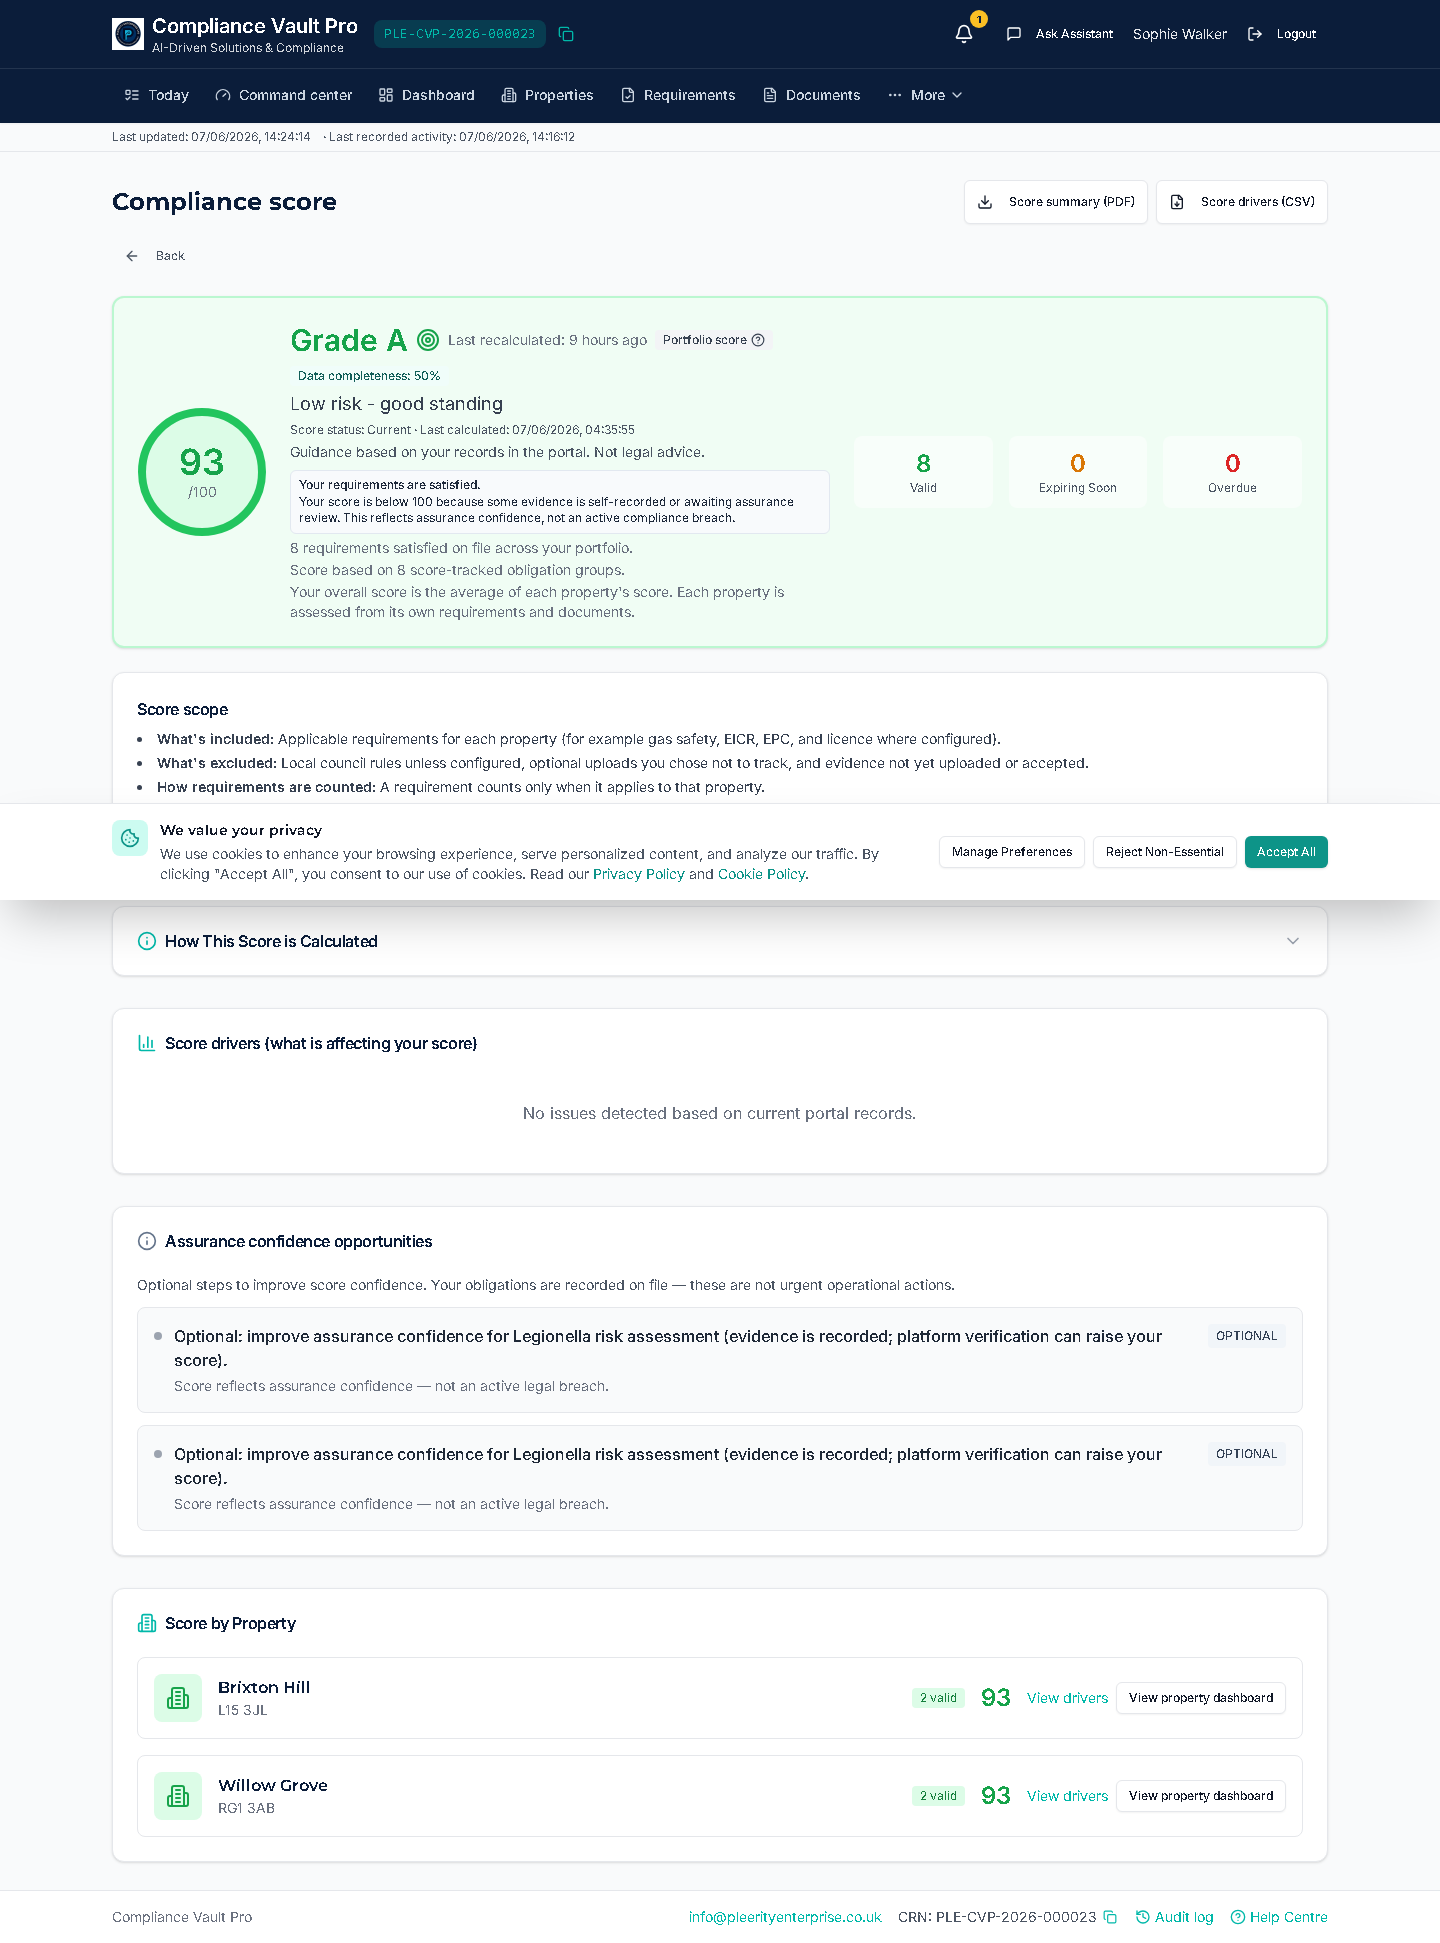
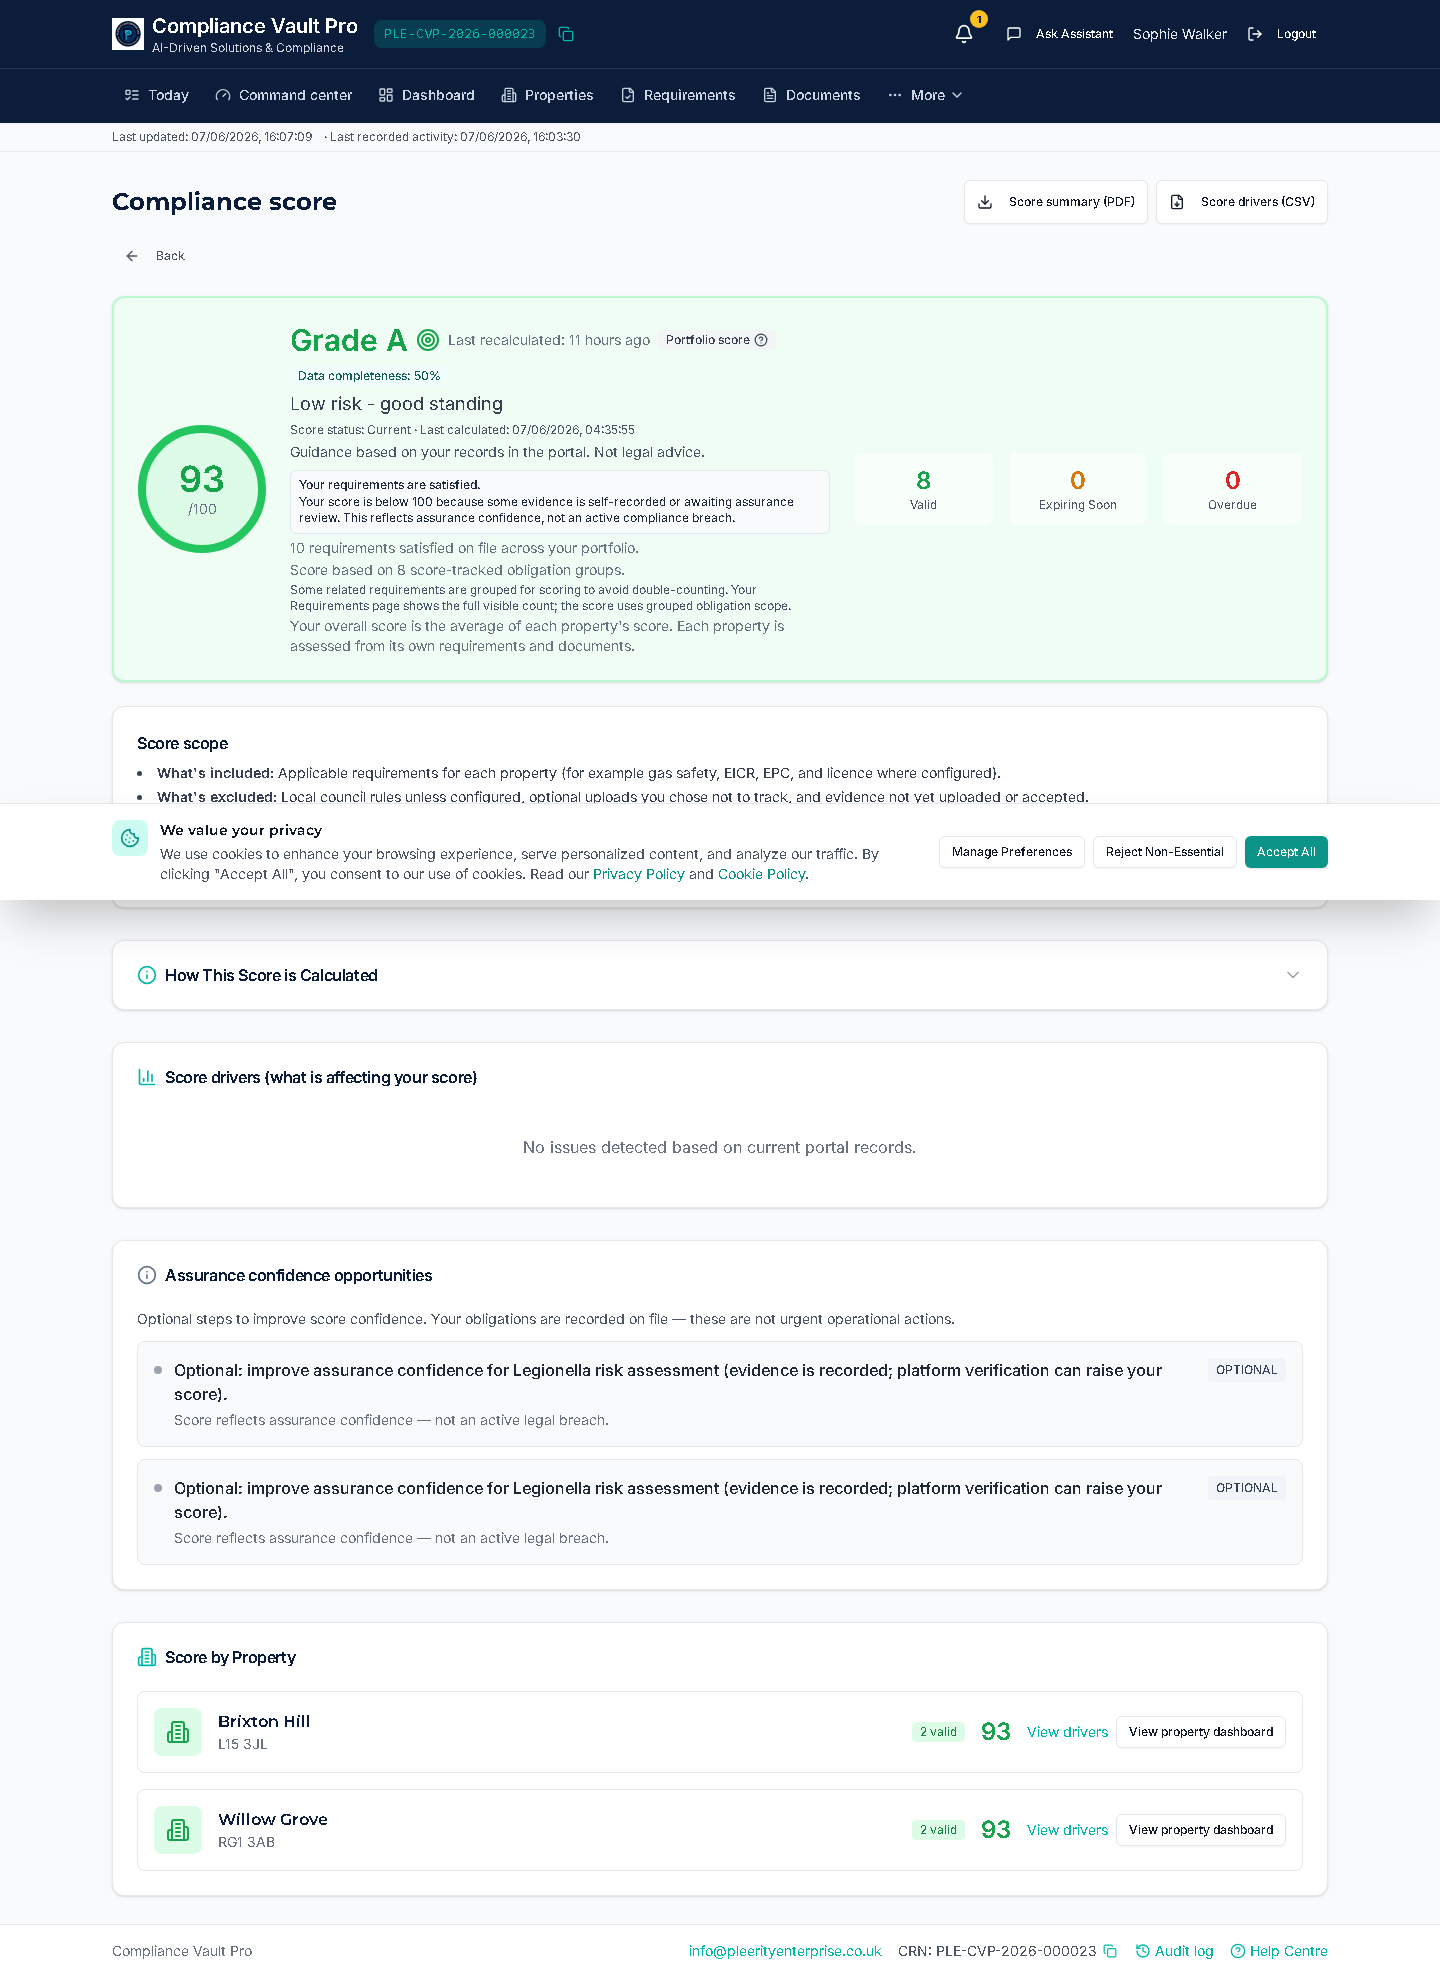
docs(audit): verify score scope convergence VERIFIED_OPERATIONALLY
Post-0dbe58a1 staging closeout: Compliance Score API and browser show 10/10/8 with grouping note; all surfaces aligned.

diff --git a/backend/docs/audit/compliance_projection_convergence_runtime_audit_01/REPORT.md b/backend/docs/audit/compliance_projection_convergence_runtime_audit_01/REPORT.md
@@ -1,66 +1,36 @@
-# SCORE-SCOPE-DEPLOYMENT-AND-CODEPATH-DIAGNOSTIC-01
+# Score scope convergence — operational verification complete
 
-**Classification:** `INPUT_SCOPE_DRIFT`  
-**Generated:** 2026-06-07T14:29:14Z  
+**Classification:** `VERIFIED_OPERATIONALLY`  
+**Final fix commit:** `0dbe58a1`  
+**Generated:** 2026-06-07T15:09:22Z  
 **Target:** Sophie Walker (`PLE-CVP-2026-000023`)
 
 ## Executive summary
 
-Render **is** deployed with post-`b0510957` code (`/api/version` commit `9fe393b0`). Root cause is **not** deployment mismatch. `apply_registry_display_semantics` was called in `calculate_compliance_score`, but received **score-scoped enriched rows (8)** from a partial `client_row` Mongo projection while dashboard/requirements use the **full client document (10 rows)**. Registry display overrides never saw the 2 excluded Willow Grove requirements (`epc`, `fire_alarm`).
+Score scope semantic drift is **operationally verified** on staging after `0dbe58a1`. Compliance Score API and browser now show **10 requirements satisfied on file**, **8 score-tracked obligation groups**, grouping note visible, score **93/100** unchanged. Today, Requirements, Properties, and Dashboard remain aligned.
 
-**Fix applied:** load `registry_enriched` via full-client filter solely for `apply_registry_display_semantics`; score-scoped `portal_reqs` pipeline unchanged (score formula untouched).
+## Root cause chain
 
-## PART 1 — Deployment identity
+1. **`b0510957`** — Added `apply_registry_display_semantics` but compliance-score used score-scoped counts only.
+2. **`fefa72bd`** — Loaded full client doc for registry filter, but still passed truncated property projection → filter returned 8 rows.
+3. **`0dbe58a1`** — Registry display filter now uses **full property documents** (dashboard/Requirements parity); score-scoped `portal_reqs` unchanged.
+
+## Post-`0dbe58a1` verification
 
 | Check | Result |
 |-------|--------|
-| `/api/version` commit | `9fe393b0` (includes b0510957) |
-| `/api/health` commit SHA | **Not exposed** (observability gap on health only) |
-| Service | `pleerity-api` on Render |
+| API visible / lifecycle / score_tracked | **10 / 10 / 8** |
+| grouping_note | **Present** |
+| Compliance Score browser | **10 satisfied / 8 score-tracked / note visible** |
+| Today calm | **PASS** |
+| Requirements 10/10 | **PASS** |
+| Properties 2 Valid / 0 Attention | **PASS** |
+| Regression | **41 tests PASS** |
 
-**Ruled out:** `DEPLOYMENT_MISMATCH`
+## Programme history
 
-## PART 2 — API route trace
-
-Compliance Score page → `GET /client/compliance-score` → `calculate_compliance_score`. Same route (not bypass). Dashboard uses `GET /client/dashboard` with full client doc for semantics.
-
-## PART 3 — Codepath probe
-
-| Surface | visible | lifecycle | score_tracked | grouping_note |
-|---------|---------|-----------|---------------|---------------|
-| Staging compliance-score API | 8 | 8 | 8 | null |
-| Dashboard API | 10 | 10 | 10 | — |
-| Requirements full API | 10 | 10 | 10 | null |
-| **Post-fix simulation** | **10** | **10** | **8** | **present** |
-
-Collapse point: `filter_requirement_rows_for_client_runtime_surfaces(..., client_doc=partial_client_row)` in `calculate_compliance_score`.
-
-## PART 4 — Data scope trace
-
-10 visible registry rows; 2 excluded from score-scoped portal projection (Willow Grove `epc` + `fire_alarm`) due to partial client context in planner filter. Both remain lifecycle-satisfied and visible on Requirements page.
-
-## PART 5 — Root cause
-
-**`INPUT_SCOPE_DRIFT`** — correct code deployed, wrong input scope to display semantics merge.
-
-## PART 6 — Minimal fix
-
-`compliance_score.py`: separate `registry_enriched` load with full client doc for `apply_registry_display_semantics` only.
-
-## PART 7 — Verification
-
-Local simulation on staging Requirements full data: **PASS** (10/10/8 + grouping note). Staging live API: **pending redeploy**.
-
-## PART 8 — Regression
-
-41 backend targeted tests **PASS** (including new registry/score-tracked preservation test).
-
-## Next step
-
-Redeploy Render backend and re-run:
-
-```bash
-python scripts/score_scope_backend_deploy_closeout_01_execute.py
-```
-
-Expected: `VERIFIED_OPERATIONALLY`
+| Programme | Classification |
+|-----------|----------------|
+| TODAY-HERO-AND-SCORE-SCOPE-POST-DEPLOY-CLOSEOUT-01 | SCORE_COUNT_SEMANTIC_DRIFT |
+| SCORE-SCOPE-BACKEND-DEPLOY-CLOSEOUT-01 | SCORE_COUNT_SEMANTIC_DRIFT → **VERIFIED_OPERATIONALLY** |
+| SCORE-SCOPE-DEPLOYMENT-AND-CODEPATH-DIAGNOSTIC-01 | INPUT_SCOPE_DRIFT (fixed) |

diff --git a/backend/docs/audit/compliance_projection_convergence_runtime_audit_01/watchlist.md b/backend/docs/audit/compliance_projection_convergence_runtime_audit_01/watchlist.md
@@ -1,30 +1,30 @@
-# Watchlist — Score scope deployment + codepath diagnostic
+# Watchlist — Score scope convergence
 
-## Root cause (resolved in code)
+## Status: VERIFIED_OPERATIONALLY
 
-**INPUT_SCOPE_DRIFT** — `calculate_compliance_score` passed score-scoped `enriched_portal` (8 rows from partial `client_row` filter) into `apply_registry_display_semantics` instead of full-registry enriched rows (10). Dashboard/requirements already used full client doc.
+Staging verified post-`0dbe58a1` (2026-06-07):
 
-## Fix shipped (pending Render redeploy)
+- Compliance Score API: visible=10, lifecycle=10, score_tracked=8, grouping note present
+- Browser: “10 requirements satisfied on file”, “8 score-tracked obligation groups”, grouping note visible
+- Today calm (urgent_count=0, Needs action 0)
+- Requirements 10/10, Properties 2 Valid / 0 Attention, Dashboard 10 active / 8 score-tracked
+- Regression: 41 targeted tests pass
 
-- `compliance_score.py`: load `registry_enriched` with full client doc for display semantics merge only
-- Score-scoped `portal_reqs` unchanged → `score_tracked_requirement_count` stays 8
-- Expected after deploy: visible=10, lifecycle=10, score_tracked=8, grouping note populated
+## Fix commits (for reference)
 
-## Deploy proof reference
+| Commit | Change |
+|--------|--------|
+| `b0510957` | `apply_registry_display_semantics` at compliance-score API |
+| `fefa72bd` | Full client doc for registry display filter |
+| `0dbe58a1` | Full property docs for registry display filter |
 
-- Staging `/api/version`: `9fe393b0` (includes b0510957) — deployment was **not** the blocker
-- `/api/health` lacks commit SHA (minor observability gap; use `/api/version`)
+## No open blockers
 
-## Re-run after redeploy
+Score scope semantic drift closed for Sophie Walker staging account.
+
+## Re-run harness (if needed)
 
 ```bash
 cd backend
 python scripts/score_scope_backend_deploy_closeout_01_execute.py
 ```
-
-## Classification history
-
-| Programme | Classification |
-|-----------|----------------|
-| SCORE-SCOPE-BACKEND-DEPLOY-CLOSEOUT-01 | SCORE_COUNT_SEMANTIC_DRIFT |
-| SCORE-SCOPE-DEPLOYMENT-AND-CODEPATH-DIAGNOSTIC-01 | INPUT_SCOPE_DRIFT (fix applied; staging pending) |
